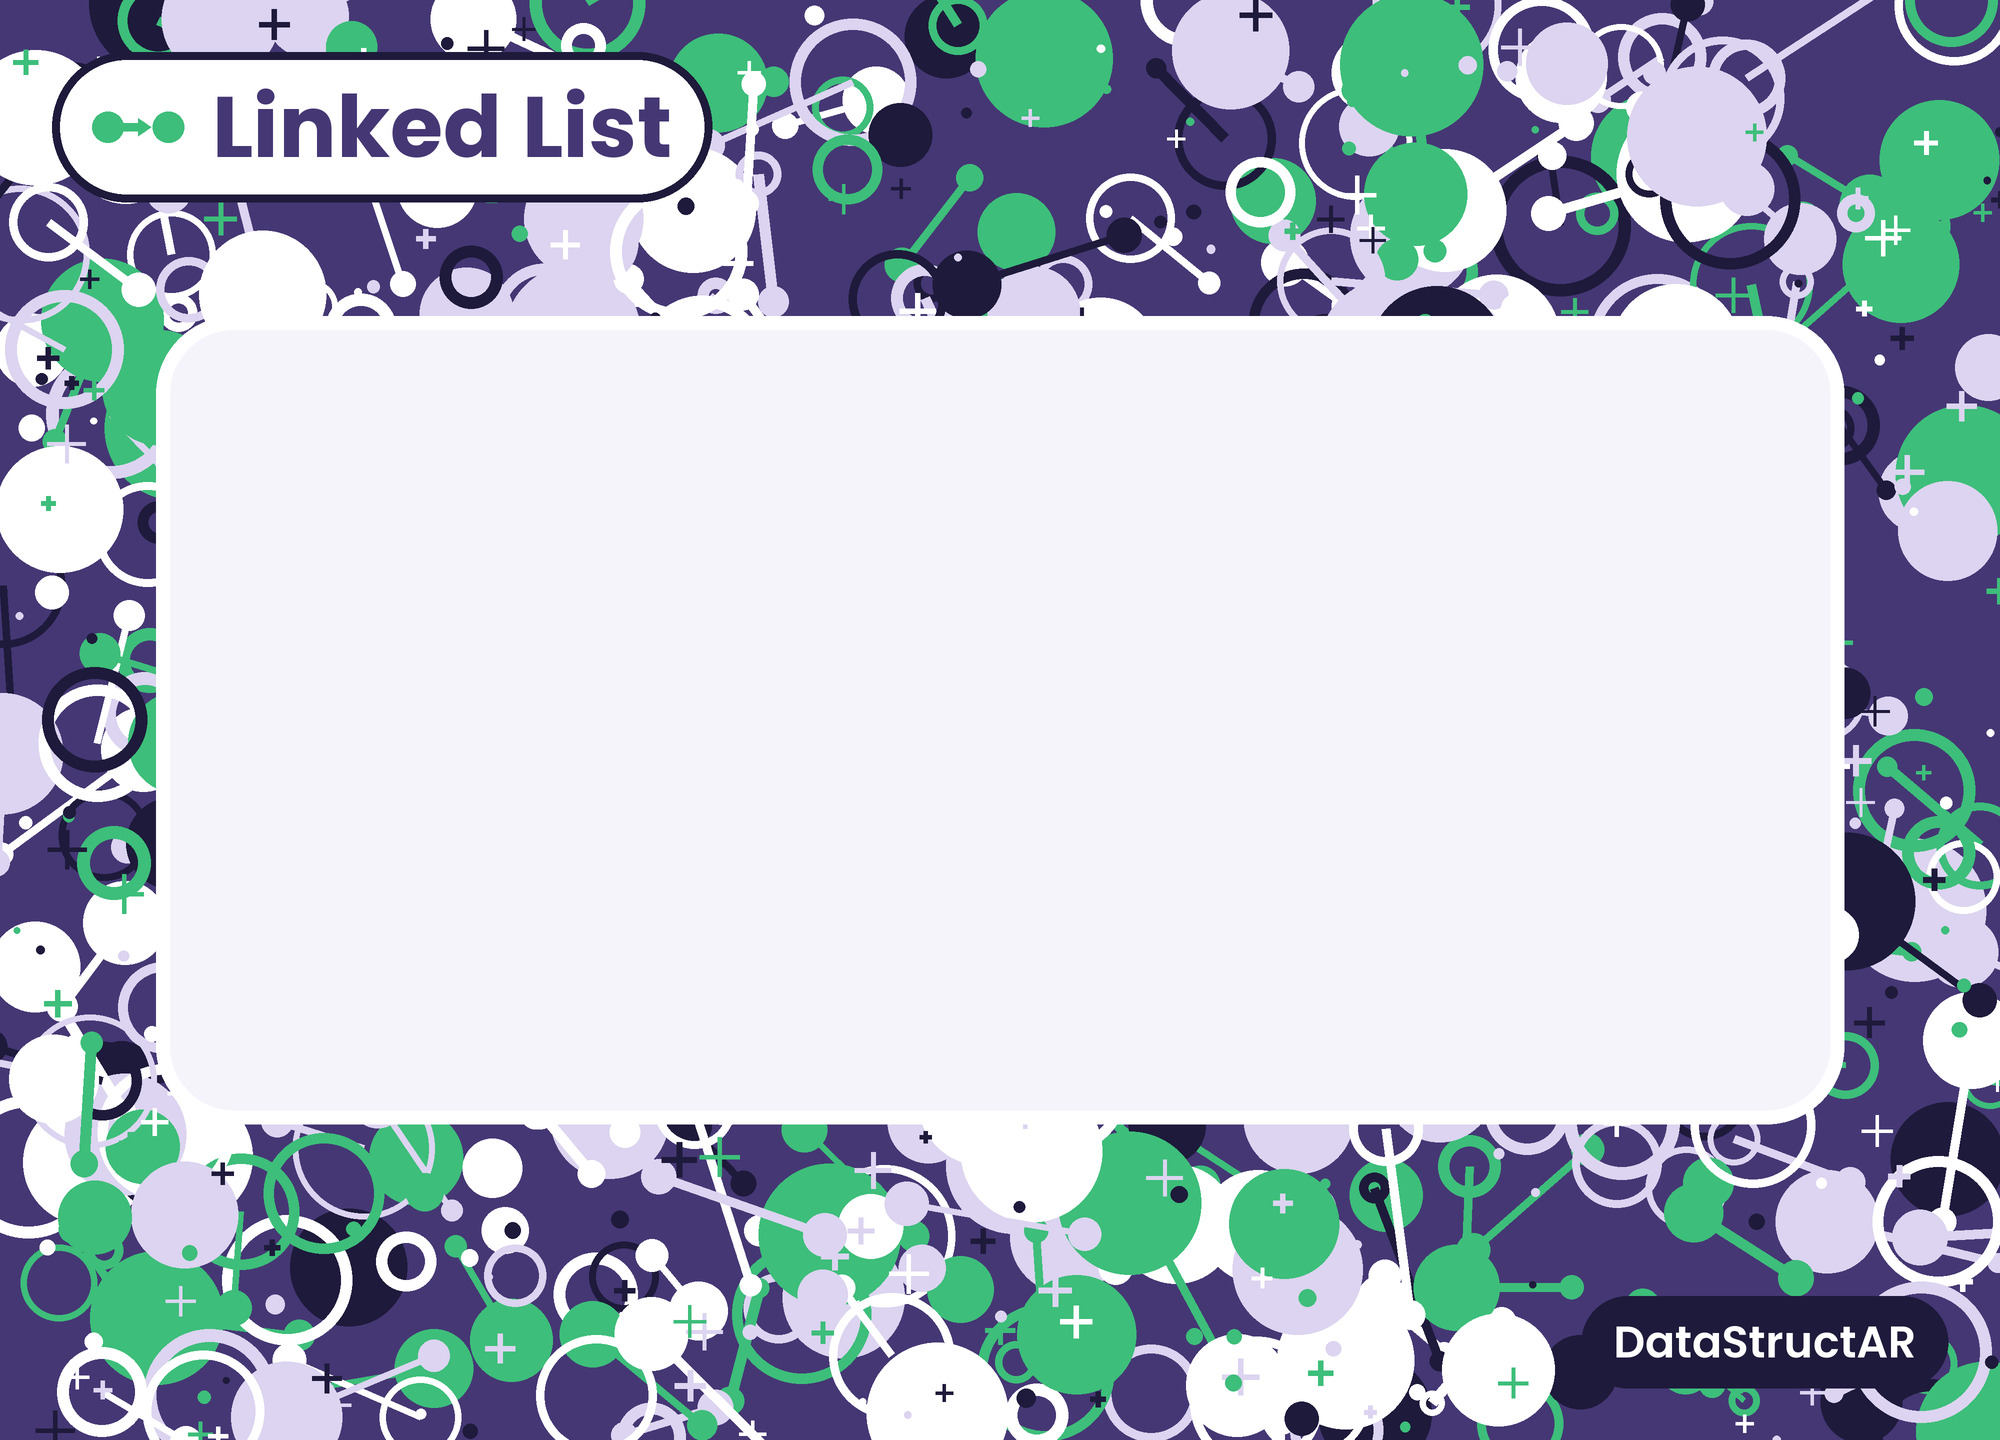
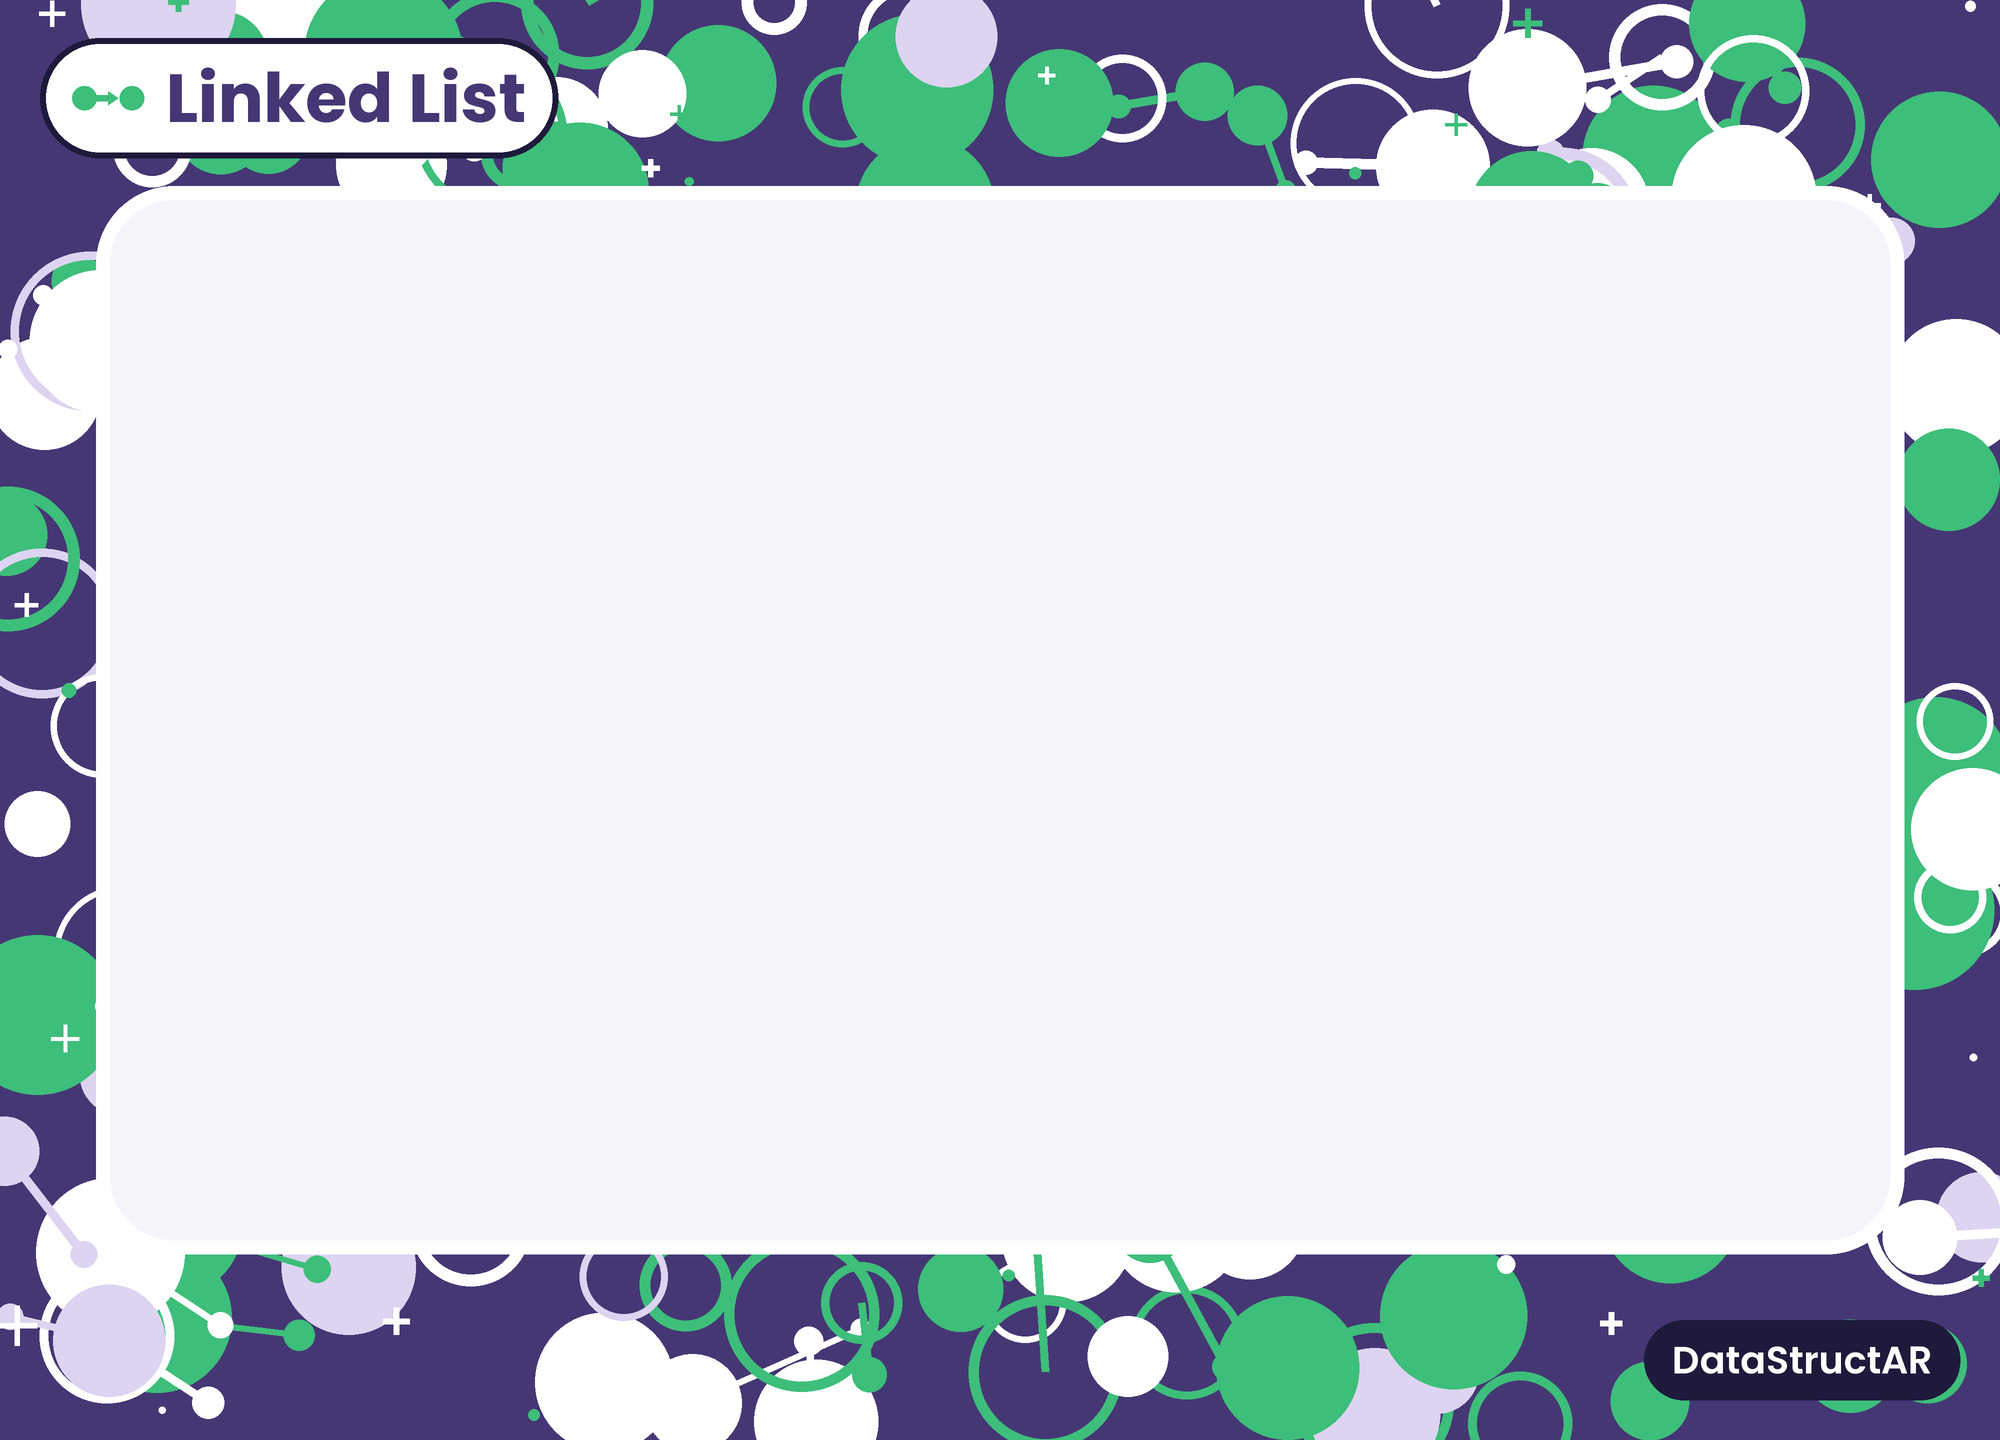
Calmer stage cards with a wider white area; fit the AR content inside it
- Cards: about a third as many shapes, larger and in two colours (white and
  the topic accent) on the purple, a smaller label, and a narrow frame, so
  the white centre grows to about 89% x 52% of the card (from 83% x 39%).
  Each card still matches itself about 9x more strongly than any other.
- Array slots sit a little closer (0.20 -> 0.18) and the linked list's Head
  label moves under the first node, so a full row fits in the white area;
  both scenes are re-centred from measurements at full capacity.
- Head and Null match the other AR labels: dark, centred, white edge.
- ScreenshotTour.RunMeasureAndQuit logs each scene's content bounds.

diff --git a/Tools/markers/make_markers.py b/Tools/markers/make_markers.py
@@ -1,7 +1,7 @@
 """Generates the four AR marker cards (Array, Linked List, Stack, Queue).
 
-Each card is a "stage": a dense, irregular, high-contrast frame that gives Vuforia plenty to
-track, around a calm centre where the 3D model appears. The topic name and icon sit in one
+Each card is a "stage": a calm, wide white centre where the 3D model appears, inside a narrow frame
+of a few large, high-contrast shapes that gives Vuforia enough to track. The topic name and icon sit in one
 corner. Every card has its own accent colour and frame shapes so they never look alike.
 
 Usage: python make_markers.py <output folder>
@@ -17,9 +17,13 @@ from PIL import Image, ImageDraw, ImageFont
 # Same proportions as the current Vuforia targets (1 : 0.72)
 WIDTH, HEIGHT = 2000, 1440
 SCALE = 2  # Drawn at double size, then scaled down for smooth edges
-# Frame thickness: thinner at the sides so the calm centre fits a full row of 5 items
-BAND_X = 170
-BAND_Y = 330
+# Frame thickness: narrow, so the white centre (about 89% x 52% of the card) fits the 3D content
+BAND_X = 110
+BAND_Y = 200
+
+# Fewer, larger shapes keep the frame calm; a few small marks add corners for tracking
+SHAPES = 110
+SPRINKLES = 40
 CENTRE_RADIUS = 64
 
 # App branding (matches UiKit)
@@ -60,8 +64,8 @@ def rotated(points, cx, cy, angle):
 
 
 def shape_colour(rng, accent):
-    # Mostly light shapes on the dark band for contrast, with accent and ink for variety
-    return rng.choices([WHITE, LAVENDER, accent, INK], weights=[4, 3, 3, 2])[0]
+    # Two main colours, white and the topic accent, on the purple band
+    return rng.choices([WHITE, accent, LAVENDER], weights=[5, 4, 1])[0]
 
 
 def draw_shape(draw, rng, kind, accent):
@@ -78,11 +82,11 @@ def draw_shape(draw, rng, kind, accent):
 
     if kind == "array":
         # Axis-aligned cells of mixed sizes, like scattered array slots
-        w, h = rng.uniform(22, 150), rng.uniform(22, 150)
+        w, h = rng.uniform(40, 170), rng.uniform(40, 170)
         poly([(s(x), s(y)), (s(x + w), s(y)), (s(x + w), s(y + h)), (s(x), s(y + h))])
     elif kind == "linkedlist":
         # Nodes, some joined to a neighbour by a link with an end dot
-        r = rng.uniform(12, 72)
+        r = rng.uniform(22, 80)
         box = [s(x - r), s(y - r), s(x + r), s(y + r)]
         if filled:
             draw.ellipse(box, fill=colour)
@@ -97,12 +101,12 @@ def draw_shape(draw, rng, kind, accent):
             draw.ellipse([s(ex - d), s(ey - d), s(ex + d), s(ey + d)], fill=colour)
     elif kind == "stack":
         # Slightly tilted bars of mixed length, like loose stacked blocks
-        w, h = rng.uniform(60, 260), rng.uniform(16, 54)
+        w, h = rng.uniform(90, 300), rng.uniform(26, 60)
         angle = math.radians(rng.uniform(-9, 9))
         poly(rotated([(-w / 2, -h / 2), (w / 2, -h / 2), (w / 2, h / 2), (-w / 2, h / 2)], x, y, angle))
     else:
         # Arrows and chevrons pointing every which way
-        size = rng.uniform(26, 120)
+        size = rng.uniform(50, 140)
         angle = rng.uniform(0, 2 * math.pi)
         if rng.random() < 0.5:
             points = [(-size / 2, -size / 2), (size / 2, 0), (-size / 2, size / 2)]
@@ -116,9 +120,9 @@ def draw_shape(draw, rng, kind, accent):
 
 def draw_sprinkles(draw, rng, accent):
     # Small crosses and dots everywhere in the band add sharp corners for tracking
-    for _ in range(260):
+    for _ in range(SPRINKLES):
         x, y = random_band_point(rng)
-        colour = rng.choice([WHITE, LAVENDER, accent, INK])
+        colour = rng.choice([WHITE, accent])
         size = rng.uniform(6, 20)
         if rng.random() < 0.5:
             w = s(rng.uniform(3, 6))
@@ -169,7 +173,7 @@ def make_card(kind, title, accent, seed):
     image = Image.new("RGB", (s(WIDTH), s(HEIGHT)), BRAND)
     draw = ImageDraw.Draw(image)
 
-    for _ in range(330):
+    for _ in range(SHAPES):
         draw_shape(draw, rng, kind, accent)
     draw_sprinkles(draw, rng, accent)
 
@@ -180,21 +184,21 @@ def make_card(kind, title, accent, seed):
     draw.rounded_rectangle(centre, radius=s(CENTRE_RADIUS), fill=CENTRE)
 
     # Topic label in the top-left corner: icon + name on a white pill
-    bold = ImageFont.truetype(str(FONT_DIR / "Poppins-Bold.ttf"), s(86))
+    bold = ImageFont.truetype(str(FONT_DIR / "Poppins-Bold.ttf"), s(68))
     text_w = draw.textlength(title, font=bold) / SCALE
-    icon = 92
-    pad = 40
-    pill = [52, 52, 52 + pad + icon + 28 + text_w + pad, 52 + 150]
+    icon = 72
+    pad = 32
+    pill = [40, 38, 40 + pad + icon + 22 + text_w + pad, 38 + 120]
     # Dark outline keeps the pill separate from light shapes behind it
-    draw.rounded_rectangle([s(v) for v in pill], radius=s(75), fill=WHITE, outline=INK, width=s(8))
-    draw_icon(draw, kind, pill[0] + pad, pill[1] + (150 - icon) / 2, icon, accent)
-    draw.text((s(pill[0] + pad + icon + 28), s(pill[1] + 75)), title, font=bold, fill=BRAND, anchor="lm")
+    draw.rounded_rectangle([s(v) for v in pill], radius=s(60), fill=WHITE, outline=INK, width=s(6))
+    draw_icon(draw, kind, pill[0] + pad, pill[1] + (120 - icon) / 2, icon, accent)
+    draw.text((s(pill[0] + pad + icon + 22), s(pill[1] + 60)), title, font=bold, fill=BRAND, anchor="lm")
 
     # App name in the bottom-right corner
-    small = ImageFont.truetype(str(FONT_DIR / "Poppins-SemiBold.ttf"), s(44))
+    small = ImageFont.truetype(str(FONT_DIR / "Poppins-SemiBold.ttf"), s(38))
     name = "DataStructAR"
     name_w = draw.textlength(name, font=small) / SCALE
-    tag = [WIDTH - 52 - name_w - 64, HEIGHT - 52 - 92, WIDTH - 52, HEIGHT - 52]
+    tag = [WIDTH - 40 - name_w - 56, HEIGHT - 40 - 80, WIDTH - 40, HEIGHT - 40]
     draw.rounded_rectangle([s(v) for v in tag], radius=s(46), fill=INK)
     draw.text((s((tag[0] + tag[2]) / 2), s((tag[1] + tag[3]) / 2)), name, font=small, fill=WHITE, anchor="mm")
 

diff --git a/Assets/Editor/ScreenshotTour.cs b/Assets/Editor/ScreenshotTour.cs
@@ -42,6 +42,7 @@ public static class ScreenshotTour
             QueueOverflowMode => BuildQueueOverflowSteps(),
             UprightMarkersMode => BuildUprightMarkerSteps(),
             ARChecksMode => BuildARCheckSteps(),
+            "Measure" => BuildMeasureSteps(),
             _ => BuildSteps(),
         };
 
@@ -158,6 +159,38 @@ public static class ScreenshotTour
         Shot(0.8f, "queue-dequeued-twice");
         Do(0.2f, () => Que().Enqueue(1));
         Shot(1.4f, "queue-wrapped");
+        return list;
+    }
+
+    // Fills each AR scene to capacity and logs where the content sits on the card ([Layout] lines)
+    public static void RunMeasureAndQuit()
+    {
+        SessionState.SetBool(QuitKey, true);
+        Start("Measure", OutputFolder + "/Measure", "Assets/Scenes/MainMenu.unity", PortraitHeight, PortraitWidth);
+    }
+
+    private static List<(float, Action)> BuildMeasureSteps()
+    {
+        List<(float, Action)> list = new List<(float, Action)>();
+        void Do(float wait, Action action) => list.Add((wait, action));
+        (string scene, Action fill)[] scenes =
+        {
+            ("Array", () => Object.FindObjectOfType<ArrayManager>().AddElement(0)),
+            ("LinkedList", () => Object.FindObjectOfType<LinkedListManager>().AddNode(0)),
+            ("Stack", () => Object.FindObjectOfType<StackManager>().Push(0)),
+            ("queue", () => Object.FindObjectOfType<QueueManager>().Enqueue(0)),
+        };
+        foreach ((string scene, Action fill) in scenes)
+        {
+            Do(0.5f, () => SceneManager.LoadScene(scene));
+            Do(2.5f, ARDemo.PretendUprightMarkerFound);
+            Do(0.2f, () => Object.FindObjectOfType<ARGuide>().DismissHowTo());
+            for (int i = 0; i < 6; i++)
+                Do(1.4f, fill);
+            Do(2.0f, ARDemo.FrameUpright);
+            Do(0.1f, () => ARDemo.LogContentBounds(scene));
+            Do(0.1f, () => Capture(scene + "-full"));
+        }
         return list;
     }
 

diff --git a/Assets/Editor/MarkerSwap.cs b/Assets/Editor/MarkerSwap.cs
@@ -45,14 +45,12 @@ public static class MarkerSwap
     }
 
     // How far to move each scene's start point, in card units (x across, y off the card, z up the card),
-    // measured with the Upright Markers capture at 5 items, so the content sits in the card's calm centre
+    // measured with ScreenshotTour.RunMeasureAndQuit at full capacity, so the content sits centred in the
+    // card's white area. Re-measure and set these again whenever the cards or layouts change.
     private static readonly (string scene, Vector3 shift)[] Recentering =
     {
-        ("Assets/Scenes/AR/Array.unity", new Vector3(-0.127f, 0.06f, -0.062f)),
-        ("Assets/Scenes/AR/LinkedList.unity", new Vector3(-0.072f, 0.073f, -0.033f)),
-        ("Assets/Scenes/AR/queue.unity", new Vector3(-0.044f, 0.09f, 0.015f)),
-        // Base at the bottom of the calm area; the stack grows from there either way the card faces
-        ("Assets/Scenes/AR/Stack.unity", new Vector3(0.004f, 0f, 0.106f)),
+        ("Assets/Scenes/AR/Array.unity", new Vector3(0.045f, 0f, 0f)),
+        ("Assets/Scenes/AR/LinkedList.unity", new Vector3(-0.05f, 0f, 0f)),
     };
 
     [MenuItem("Build/Center Content On Stage Cards")]

diff --git a/Assets/Scripts/LinkedListManager.cs b/Assets/Scripts/LinkedListManager.cs
@@ -266,6 +266,16 @@ public class LinkedListManager : MonoBehaviour
     // Labels follow their node, sit above it whichever way the card faces, and turn toward the camera
     private void AttachLabel(GameObject label, Transform follow, float alongRow, float above)
     {
+        // Same look as the other AR labels: dark, centred, with a white edge so it reads on the white card
+        TextMeshPro text = label.GetComponentInChildren<TextMeshPro>();
+        if (text != null)
+        {
+            text.alignment = TextAlignmentOptions.Center;
+            text.color = ARText.Ink;
+            text.outlineWidth = 0.3f;
+            text.outlineColor = Color.white;
+        }
+
         ARLabel arLabel = label.AddComponent<ARLabel>();
         arLabel.follow = follow;
         arLabel.marker = startPosition;
